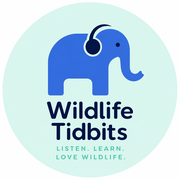
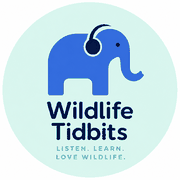
Smaller images for faster loads
Claude-Session: https://claude.ai/code/session_019xaG238NeBntefkJqfJ6wg

diff --git a/about.html b/about.html
@@ -6,7 +6,7 @@
   <title>About — Wildlife Tidbits</title>
   <meta name="description" content="Meet Dr. Audra A. Huffmeyer, conservation biologist and host of Wildlife Tidbits.">
   <meta property="og:title" content="About Wildlife Tidbits">
-  <meta property="og:image" content="/assets/logo.png">
+  <meta property="og:image" content="/assets/apple-touch-icon.png">
   <link rel="icon" type="image/png" href="/assets/favicon.png">
   <link rel="apple-touch-icon" href="/assets/apple-touch-icon.png">
   <link rel="preconnect" href="https://fonts.googleapis.com">
@@ -17,7 +17,7 @@
 <body>
   <header class="container site-header">
     <a class="brand" href="/">
-      <img src="/assets/logo.png" alt="Wildlife Tidbits logo" width="60" height="60">
+      <img src="/assets/logo.webp" alt="Wildlife Tidbits logo" width="60" height="60">
       <span class="brand-text">
         <span class="brand-name">Wildlife Tidbits</span>
         <span class="brand-tag">Listen. Learn. Love wildlife.</span>
@@ -40,7 +40,7 @@
       </div>
       <div class="host-col">
         <div class="disc disc--host">
-          <img src="/assets/audra-headshot.webp" alt="Dr. Audra A. Huffmeyer" width="880" height="1100">
+          <img src="/assets/audra-headshot.webp" alt="Dr. Audra A. Huffmeyer" width="640" height="800">
           <div class="badge">
             <span class="badge-k">Your host</span>
             <span class="badge-v">Dr. Audra A. Huffmeyer</span>

diff --git a/index.html b/index.html
@@ -7,7 +7,7 @@
   <meta name="description" content="Fun, science-backed animal facts from conservation biologist Dr. Audra A. Huffmeyer. One surprising wildlife tidbit, every week.">
   <meta property="og:title" content="Wildlife Tidbits">
   <meta property="og:description" content="Fun, science-backed animal facts from a conservation biologist.">
-  <meta property="og:image" content="/assets/logo.png">
+  <meta property="og:image" content="/assets/apple-touch-icon.png">
   <link rel="icon" type="image/png" href="/assets/favicon.png">
   <link rel="apple-touch-icon" href="/assets/apple-touch-icon.png">
   <link rel="preconnect" href="https://fonts.googleapis.com">
@@ -18,7 +18,7 @@
 <body>
   <header class="container site-header">
     <a class="brand" href="/">
-      <img src="/assets/logo.png" alt="Wildlife Tidbits logo" width="60" height="60">
+      <img src="/assets/logo.webp" alt="Wildlife Tidbits logo" width="60" height="60">
       <span class="brand-text">
         <span class="brand-name">Wildlife Tidbits</span>
         <span class="brand-tag">Listen. Learn. Love wildlife.</span>
